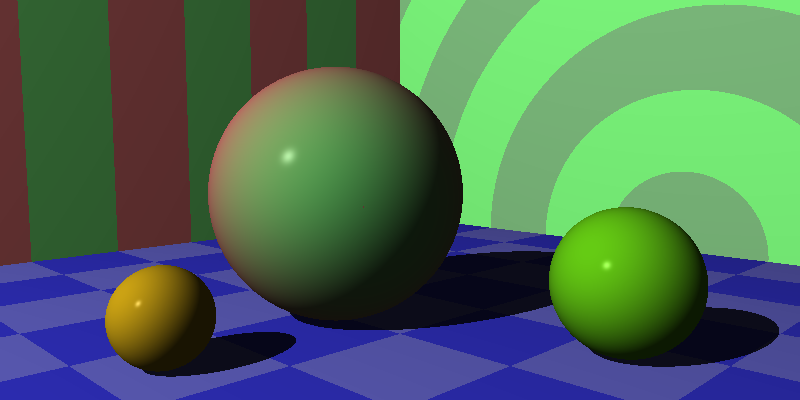
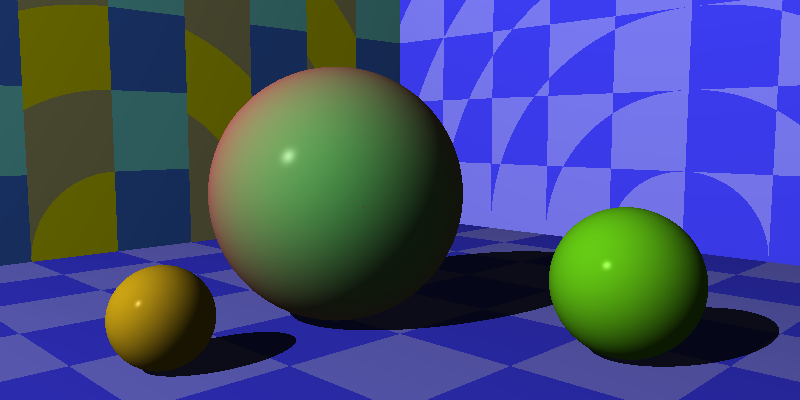
json format supports recursive Patterns

diff --git a/src/main.rs b/src/main.rs
@@ -96,18 +96,21 @@ fn create_transforms(transforms: &Vec<Transform>) -> Matrix {
     m
 }
 
+#[allow(dead_code)]
 fn create_pattern(pattern: &scene::scene::Pattern) -> Pattern {
     let pattern = pattern.clone();
-    let color = color_from_vec(&(pattern.color.unwrap_or(vec![0.0, 0.0, 0.0])));
-    let color_a = color_from_vec(&(pattern.color_a.unwrap_or(vec![0.0, 0.0, 0.0])));
-    let color_b = color_from_vec(&(pattern.color_b.unwrap_or(vec![0.0, 0.0, 0.0])));
-    match pattern.pattern_type.as_str() {
-        "solid" => Pattern::Solid(color),
-        "stripe" => Pattern::Stripe(Box::new(Pattern::Solid(color_a)), Box::new(Pattern::Solid(color_b))),
-        "gradient" => Pattern::Gradient(Box::new(Pattern::Solid(color_a)), Box::new(Pattern::Solid(color_b))),
-        "ring" => Pattern::Ring(Box::new(Pattern::Solid(color_a)), Box::new(Pattern::Solid(color_b))),
-        "checker" => Pattern::Checker(Box::new(Pattern::Solid(color_a)), Box::new(Pattern::Solid(color_b))),
-        _ => Pattern::Solid(Color::new(0.0, 0.0, 0.0)),
+    if pattern.pattern_type == "solid" {
+        return Pattern::Solid(color_from_vec(&(pattern.color.unwrap_or(vec![0.0, 0.0, 0.0]))));
+    } else {
+        let pattern_a = create_pattern(&(pattern.pattern_a.unwrap_or(Box::new(scene::scene::Pattern { pattern_type: "solid".to_string(), color: Some(vec![0.0, 0.0, 0.0]), pattern_a: None, pattern_b: None }))));
+        let pattern_b = create_pattern(&(pattern.pattern_b.unwrap_or(Box::new(scene::scene::Pattern { pattern_type: "solid".to_string(), color: Some(vec![0.0, 0.0, 0.0]), pattern_a: None, pattern_b: None }))));
+        match pattern.pattern_type.as_str() {
+            "stripe" => Pattern::Stripe(Box::new(pattern_a), Box::new(pattern_b)),
+            "gradient" => Pattern::Gradient(Box::new(pattern_a), Box::new(pattern_b)),
+            "ring" => Pattern::Ring(Box::new(pattern_a), Box::new(pattern_b)),
+            "checker" => Pattern::Checker(Box::new(pattern_a), Box::new(pattern_b)),
+            _ => Pattern::Solid(Color::new(0.0, 0.0, 0.0)),
+        }
     }
 }
 

diff --git a/src/scene.rs b/src/scene.rs
@@ -68,8 +68,8 @@ pub mod scene {
         #[serde(rename = "type")]
         pub pattern_type: String,
         pub color: Option<Vec<f64>>,
-        pub color_a: Option<Vec<f64>>,
-        pub color_b: Option<Vec<f64>>,
+        pub pattern_a: Option<Box<Pattern>>,
+        pub pattern_b: Option<Box<Pattern>>,
     }
 
     pub fn create_scene_from_json_str(json_string: &str) -> Option<Scene> {
@@ -117,15 +117,22 @@ mod tests {
                         "transforms": [
                             {
                                 "type": "translate",
-                                "x": 0.0,
-                                "y": 0.0,
-                                "z": 0.0
+                                "x": 1.0,
+                                "y": 2.0,
+                                "z": 3.0
                             }
                         ],
                         "material": {
                             "pattern": {
-                                "type": "solid",
-                                "color": [1.0, 0.0, 0.0]
+                                "type": "stripe",
+                                "pattern_a": {
+                                   "type": "solid",
+                                   "color": [1.0, 0.0, 0.0]
+                                },
+                                "pattern_b": {
+                                   "type": "solid",
+                                   "color": [0.0, 1.0, 0.0]
+                                }
                             },
                             "transforms": [],
                             "ambient": 0.1,
